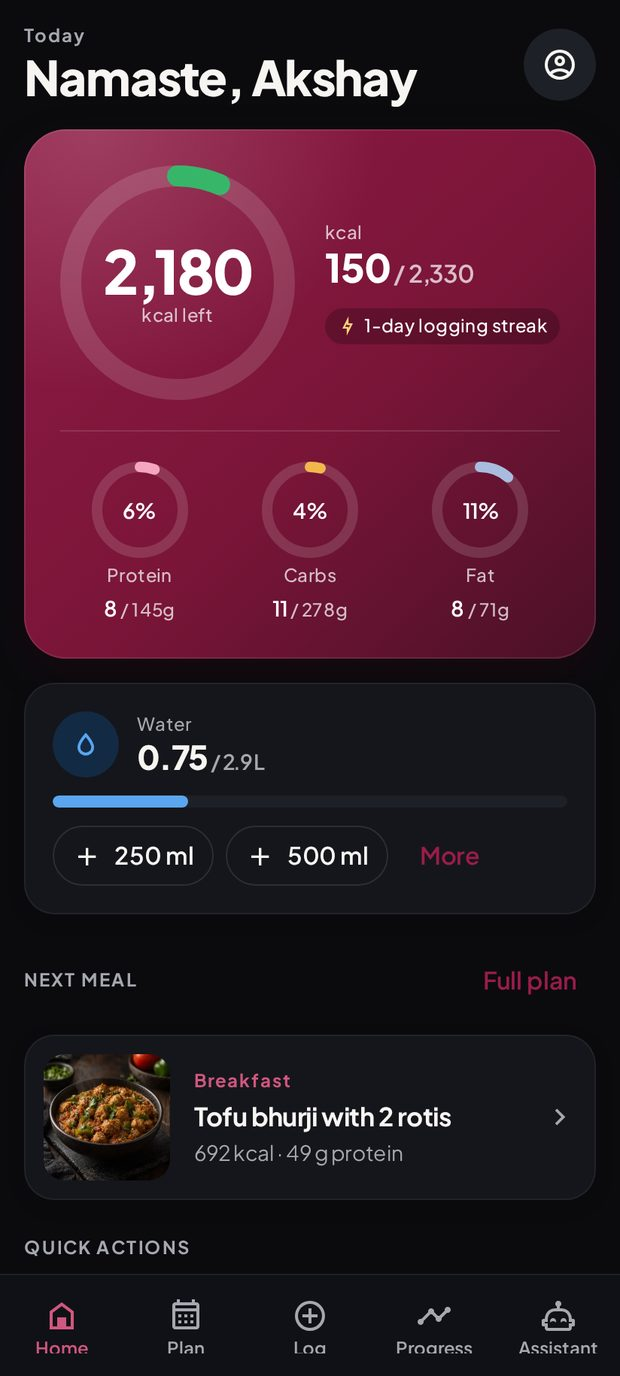
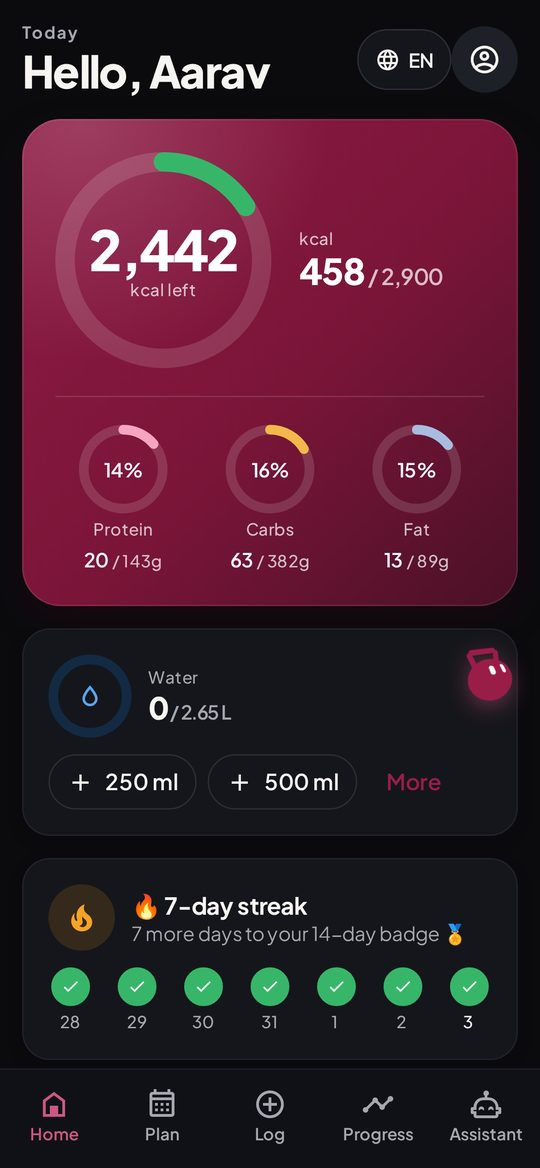
README: v1.1.0 — new English screenshots, what's new, why it's different, Meet Damru
Old screenshots removed; banner, badges, download button, install steps and Features kept.

diff --git a/README.md b/README.md
@@ -9,7 +9,7 @@
 </p>
 
 <p align="center">
-  <a href="https://github.com/iashwani69-code/desi-gym-diet-app/releases/latest"><img alt="Version 1.0.10" src="https://img.shields.io/badge/version-1.0.10-7A1538?style=for-the-badge"></a>
+  <a href="https://github.com/iashwani69-code/desi-gym-diet-app/releases/latest"><img alt="Version 1.1.0" src="https://img.shields.io/badge/version-1.1.0-7A1538?style=for-the-badge"></a>
   <img alt="Android 7.0+" src="https://img.shields.io/badge/Android-7.0%2B-3DDC84?style=for-the-badge&logo=android&logoColor=white">
   <img alt="iPhone web app" src="https://img.shields.io/badge/iPhone-web%20app-0B0B0E?style=for-the-badge&logo=apple&logoColor=white">
   <img alt="English, Hinglish, Hindi" src="https://img.shields.io/badge/English%20%C2%B7%20Hinglish%20%C2%B7%20%E0%A4%B9%E0%A4%BF%E0%A4%82%E0%A4%A6%E0%A5%80-D4AF5F?style=for-the-badge">
@@ -17,39 +17,81 @@
 </p>
 
 <p align="center">
-  <a href="https://github.com/iashwani69-code/desi-gym-diet-app/releases/latest/download/DesiGymDiet.apk"><img alt="Download APK v1.0.10" height="56" src="https://img.shields.io/badge/%E2%AC%87%20%20Download%20APK-v1.0.10%20%C2%B7%2087%20MB-7A1538?style=for-the-badge&logo=android&logoColor=white&labelColor=4A1026"></a>
+  <a href="https://github.com/iashwani69-code/desi-gym-diet-app/releases/latest/download/DesiGymDiet.apk"><img alt="Download APK v1.1.0" height="56" src="https://img.shields.io/badge/%E2%AC%87%20%20Download%20APK-v1.1.0%20%C2%B7%2088%20MB-7A1538?style=for-the-badge&logo=android&logoColor=white&labelColor=4A1026"></a>
   &nbsp;
   <a href="https://dgd-app.pages.dev/"><img alt="Open the iPhone web app" height="56" src="https://img.shields.io/badge/Open%20on%20iPhone-dgd--app.pages.dev-0B0B0E?style=for-the-badge&logo=apple&logoColor=white&labelColor=4A1026"></a>
 </p>
 
 ---
 
+## What's new in v1.1.0
+
+- **Continue with Google.** One-tap sign-in on Android, the iPhone web app and the website. Email and password still work.
+- **Your plan first, account later.** Answer a few questions, see your free plan and daily targets, then save it with an account.
+- **Email confirmation.** New email accounts confirm their address before the first login.
+- **Streak on Home.** Your logging streak is on the Home screen, and Damru celebrates your milestones.
+- **Faster logging.** Recent foods at the top of search, "Same as yesterday" in one tap, and a "Logged ✓ (Undo)" confirmation.
+- **Target weight.** Set a goal weight and see roughly when you will get there at a safe pace.
+- **Workouts.** A Workout tab with well-known beginner programs (StrongLifts 5×5, PHUL, 7-Minute Workout, a bodyweight routine), sets / reps / kg logging and a rest timer. A finished workout counts for your streak.
+- **Reminders that fit your day.** Damru asks when to remind you: about 6 a day by default, never at night.
+- **Health Connect (Android, optional).** Steps can add the calories you burned to Home.
+- **Security fixes.** Logging out now clears this device's saved data, and the Android app asks for fewer permissions.
+
 ## Screenshots
 
 <table>
   <tr>
-    <td align="center"><img src="screenshots/welcome.jpg" width="200"><br><sub>Welcome</sub></td>
-    <td align="center"><img src="screenshots/home.jpg" width="200"><br><sub>Home: macro rings</sub></td>
+    <td align="center"><img src="screenshots/login-google.jpg" width="200"><br><sub>Log in with Google or email</sub></td>
+    <td align="center"><img src="screenshots/home.jpg" width="200"><br><sub>Home: streak, macros, workout</sub></td>
     <td align="center"><img src="screenshots/meal-plan.jpg" width="200"><br><sub>Indian meal plan</sub></td>
-    <td align="center"><img src="screenshots/food-detail.jpg" width="200"><br><sub>Food detail</sub></td>
   </tr>
   <tr>
-    <td align="center"><img src="screenshots/choose-goal.jpg" width="200"><br><sub>Choose your goal</sub></td>
-    <td align="center"><img src="screenshots/safe-targets.jpg" width="200"><br><sub>Safe targets only</sub></td>
-    <td align="center"><img src="screenshots/allergy-warning.jpg" width="200"><br><sub>Allergy warning</sub></td>
-    <td align="center"><img src="screenshots/home-hindi.jpg" width="200"><br><sub>हिंदी में</sub></td>
+    <td align="center"><img src="screenshots/quick-log.jpg" width="200"><br><sub>Recent foods + "Same as yesterday"</sub></td>
+    <td align="center"><img src="screenshots/workout.jpg" width="200"><br><sub>Workout programs</sub></td>
+    <td align="center"><img src="screenshots/target-weight.jpg" width="200"><br><sub>Target weight and date</sub></td>
   </tr>
   <tr>
-    <td align="center"><img src="assets/iphone_home.jpg" width="200"><br><sub>iPhone web app</sub></td>
-    <td align="center"><img src="screenshots/ai-assistant.jpg" width="200"><br><sub>AI assistant (Hinglish)</sub></td>
-    <td align="center"><img src="screenshots/web-reminders.jpg" width="200"><br><sub>Daily reminders (web)</sub></td>
-    <td></td>
+    <td align="center"><img src="screenshots/welcome.jpg" width="200"><br><sub>Welcome: plan first</sub></td>
+    <td align="center"><img src="screenshots/damru-streak.jpg" width="200"><br><sub>Damru celebrates a streak</sub></td>
+    <td align="center"><img src="screenshots/damru-reminders.jpg" width="200"><br><sub>Damru asks when to remind you</sub></td>
   </tr>
 </table>
 
+<sub>Screenshots from the v1.1.0 web app on a phone, English UI.</sub>
+
+## Why Desi Gym Diet is different
+
+- **Built around Indian food.** Plans, swaps and logging use dal, roti, sabzi, paneer, eggs and 346 Indian recipes, with katori and roti-style portions, not imported meal templates.
+- **Your language.** The whole app works in English, Hinglish or हिंदी, and food search understands Hindi and Hinglish names.
+- **Free, with no ads.** No subscription is needed for the plan, the log, workouts or reminders, and your data is not sold.
+- **Clear about the maths.** The targets screen shows how your calories and protein were calculated (Mifflin-St Jeor), and unsafe targets are refused.
+- **Allergy checks everywhere.** Plans, swaps and grocery lists are checked against your allergies, including local names like "groundnut", "jhinga" and "maida".
+- **Budget-aware.** Plans can stay within a daily ₹ budget and your cooking time, and the grocery list skips what is already in your pantry.
+- **Works offline on Android.** Food search and logging keep working without internet.
+- **Privacy checked before release.** Each account can only see its own data, the app carries no secret keys, and new accounts confirm their email. These were tested with separate test accounts before v1.1.0 went live.
+- **A coach with personality.** Damru gives short, useful tips on every screen instead of long articles.
+
+## Meet Damru
+
+<p align="center">
+  <img src="screenshots/damru-streak.jpg" width="220" alt="Damru celebrating a 7-day streak">
+  &nbsp;&nbsp;
+  <img src="screenshots/damru-reminders.jpg" width="220" alt="Damru asking when to remind you">
+</p>
+
+Damru is the app's mascot: a cheerful kettlebell and your desi gym buddy.
+
+- **Tips on every screen.** A short, useful line for the screen you are on, with the odd desi joke.
+- **Smart hints from your own numbers.** For example, how much protein is left today.
+- **Field hints while you type.** On Android he sits just above the keyboard with a hint for the field you are filling.
+- **Reminders and celebrations.** He asks when you want reminders and celebrates your streak milestones.
+- **Never in the way.** He steps aside when a popup is open, and a long-press hides him.
+
+Mascot art based on Bible Strong Avatar Lab by @_smontlouis (AGPL-3.0).
+
 ## Download for Android
 
-**[⬇ Download DesiGymDiet.apk (v1.0.10, 87 MB)](https://github.com/iashwani69-code/desi-gym-diet-app/releases/latest/download/DesiGymDiet.apk)** · Android 7.0 or newer · [all releases](https://github.com/iashwani69-code/desi-gym-diet-app/releases)
+**[⬇ Download DesiGymDiet.apk (v1.1.0, 88 MB)](https://github.com/iashwani69-code/desi-gym-diet-app/releases/latest/download/DesiGymDiet.apk)** · Android 7.0 or newer · [all releases](https://github.com/iashwani69-code/desi-gym-diet-app/releases)
 
 1. Open the download link on your Android phone. Chrome saves `DesiGymDiet.apk`.
 2. Tap the downloaded file (or open it from **Files → Downloads**).
@@ -70,7 +112,7 @@ No App Store needed. Open **[dgd-app.pages.dev](https://dgd-app.pages.dev/)**:
 2. Tap **Share** (the square with the arrow).
 3. Tap **Add to Home Screen**.
 4. Open **Desi Gym Diet** from the new icon on your home screen.
-5. **Sign up**, or **log in with the same account you use on Android**. Your data syncs.
+5. Tap **Continue with Google**, sign up with email, or **log in with the same account you use on Android**. Your data syncs.
 
 The web app also works in any modern browser on a laptop or Android phone. (The step tracker is Android-only: iPhone web apps cannot read the phone's step count.)
 
@@ -94,6 +136,10 @@ The web app also works in any modern browser on a laptop or Android phone. (The 
 - **Step tracker (Android).** Choose your own daily goal (5,000 / 7,000 / 10,000 / 12,000 or any number), see a steps ring
   on Home, get a 7 PM nudge if steps are left, and a "Hurrah! 🎉" from Damru when you hit it. Steps stay on your phone.
 - **Damru, your desi gym buddy.** Useful tips on every screen, the odd desi joke, and a small hint for each field while you type.
+- **Sign in with Google or email (v1.1.0).** See your plan first, then save it with an account.
+- **Workouts (v1.1.0).** Beginner programs, sets / reps / kg logging and a rest timer; finished workouts count for your streak.
+- **Target weight (v1.1.0).** A goal weight with an estimated date at a safe pace.
+- **Faster logging (v1.1.0).** Recent foods, "Same as yesterday" and Undo.
 
 ## Reminders and notifications
 
@@ -125,17 +171,8 @@ disorder, talk to a doctor or a registered dietitian before changing your diet.
 
 ## Version
 
-**What's new in v1.0.10 (Android + web / iPhone):**
-- **Apni bhasha chuno:** English, Hinglish ya हिंदी. Pehli baar app kholne pe chooser aata hai (English pehle se selected), aur har screen ke upar 🌐 button (EN / Hi / हि) se kabhi bhi badlo. Poora app, Damru ki tips aur jokes, field hints aur reminder notifications, sab aapki chuni bhasha mein.
-- **Step tracker (sirf Android):** roz ka steps goal aap khud chuno (5,000 / 7,000 / 10,000 / 12,000 ya apna number; kabhi bhi badlo), Home pe steps ring, steps baaki hon toh shaam 7 baje reminder (quiet hours mein nahi), goal pura hone pe Damru ka "Hurrah! 🎉". Steps sirf aapke phone pe rehte hain; calories sirf andaza hain.
-- **Naya look:** warm gradient header cards, paani ka progress ring, khaali screens pe Damru, Physical Activity (step permission) ka naya popup.
-
-Install the new APK over the old app; your login and data stay. v1.0.9 users: the app shows "Naya update aaya hai" by itself.
-
-**What's new in v1.0.9 (Android + web):**
-- **Personal reminders:** apna uthne-sone ka time, meals aur workout ka time khud set karo. Goal (fat loss / muscle gain / maintain) ke hisaab se default times pehle se bhare milte hain (research-based); paani har ghante, sirf jaagte waqt. Settings → Reminders. Settings sirf aapke phone pe save hoti hain.
-- **Damru v2:** har screen pe kaam ki tip, beech-beech mein desi jokes 😄, keyboard khulte hi Damru keyboard ke upar aa jata hai aur har field ke liye chhota hint deta hai (email, password, height, weight...). Kabhi kisi button ya field ke upar nahi baithta.
-- Keyboard khulne pe screen ab upar khisakti hai, likhte waqt field dikhta rahe.
+**Current: v1.1.0** (Android + web / iPhone). See "What's new in v1.1.0" above. Install the new APK over the old app;
+your login and data stay. Users of v1.0.8 and later see the "update available" pop-up in the app by themselves.
 
 See [Releases](https://github.com/iashwani69-code/desi-gym-diet-app/releases) for the full history.
 
